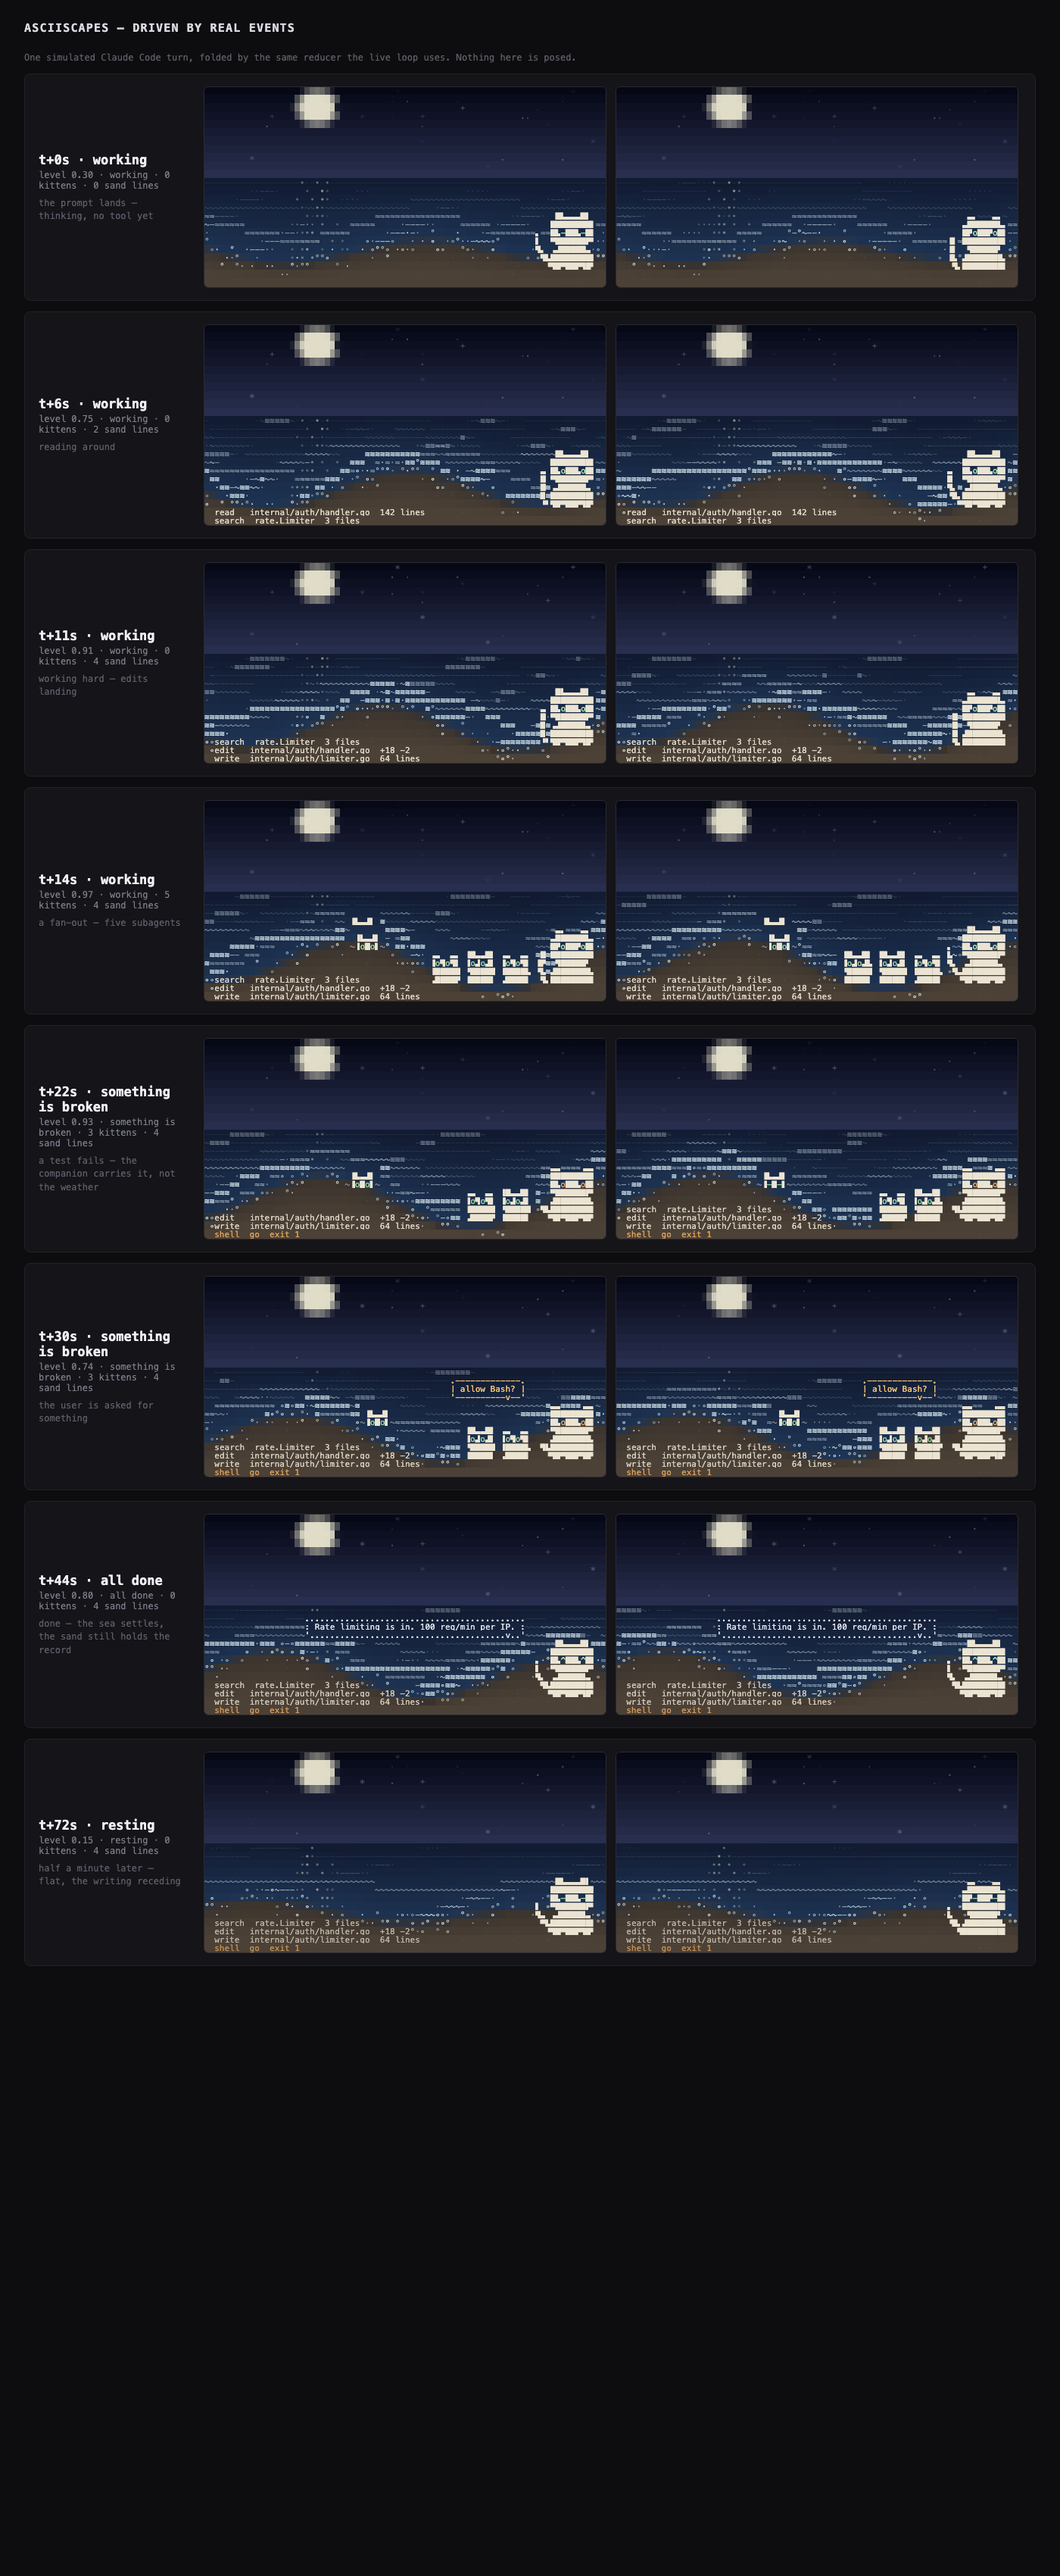
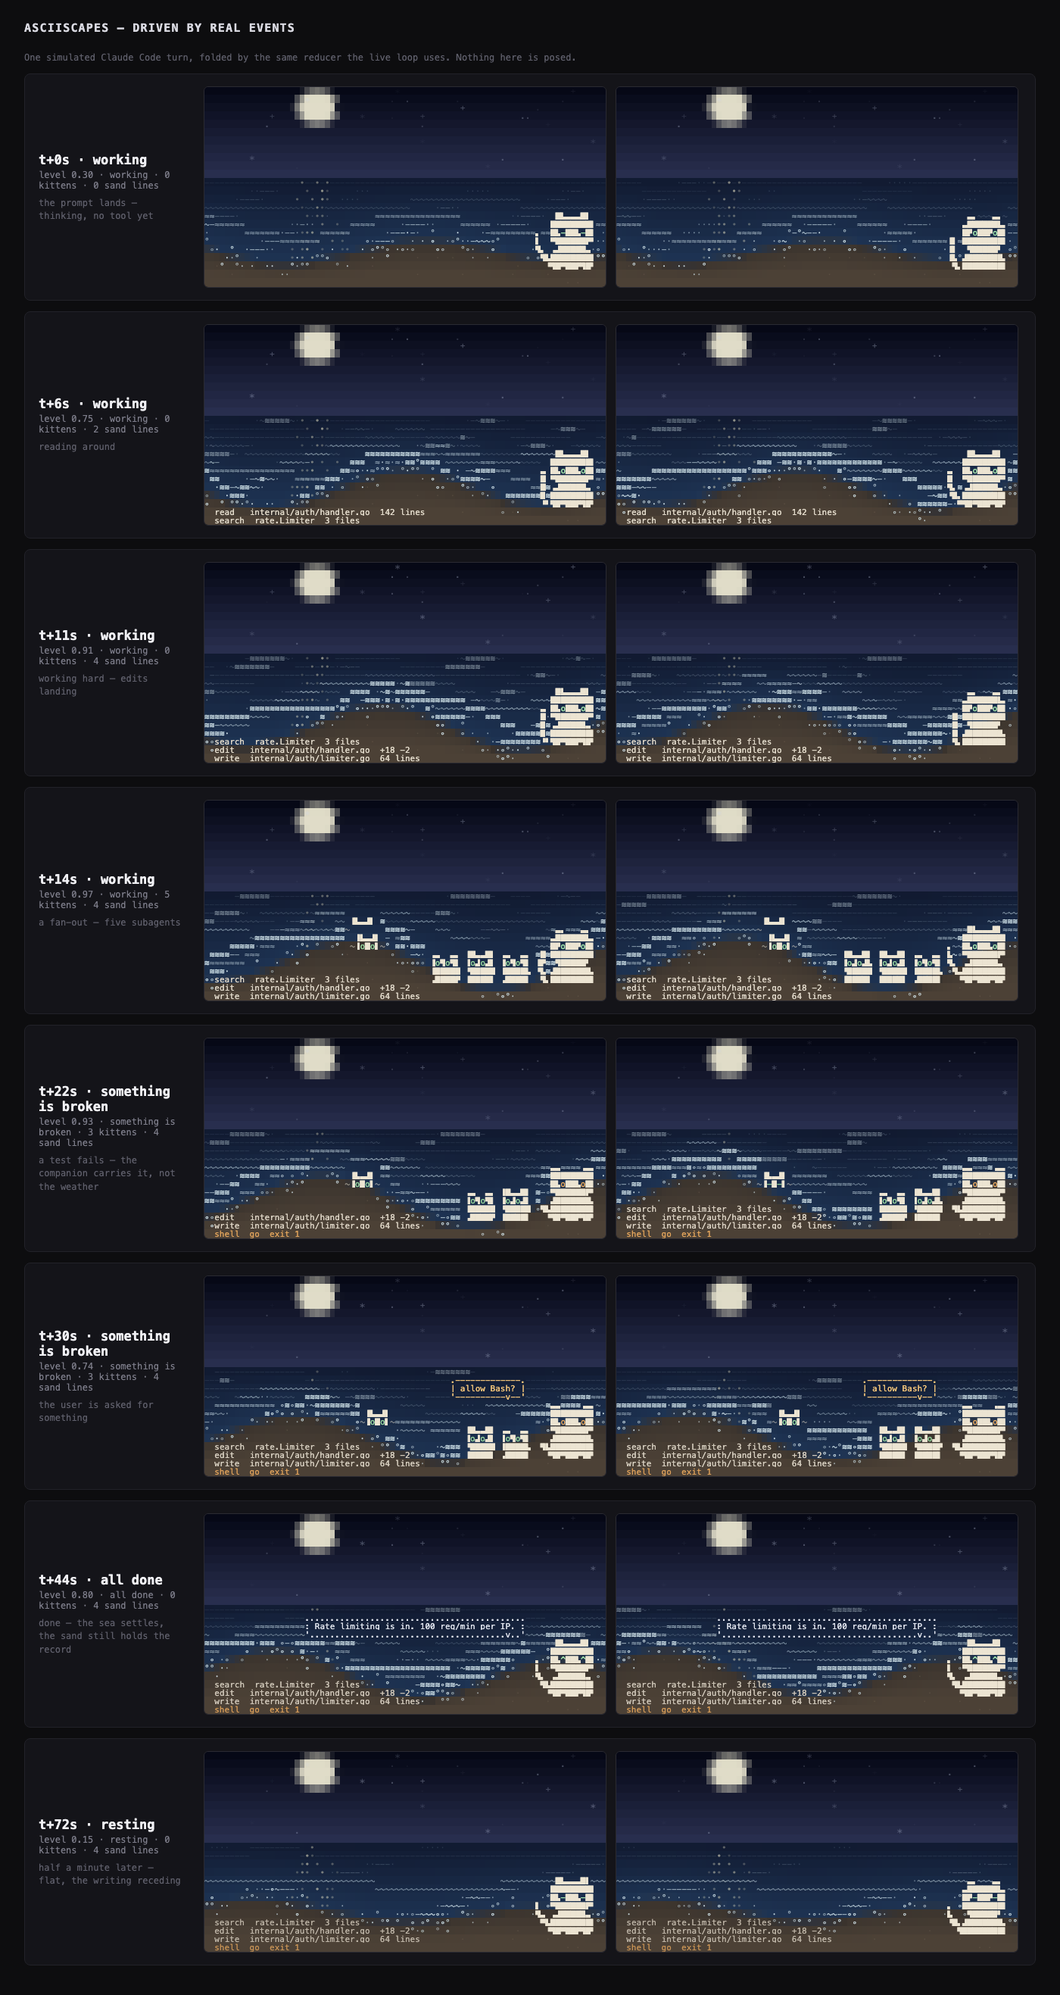
README and LICENSE: the last piece of Milestone 1
Leads with the layer rather than the landscape, per the brief: the event
protocol with pluggable adapters is the general thing, the shoreline is
what it looks like. Then the encoding table, because a scene nobody can
read is decoration.

Every command in it was run before it was written down. Three claims
were wrong on the first draft and are fixed rather than shipped: the
event names are sub_start/sub_end and not subagent_*, the process
adapter is specified and NOT built so it is no longer written in the
present tense, and 'go install github.com/...' cannot work because this
repo has no remote yet, so the install is build-from-source.

wired.png regenerated so the image at the top matches HEAD.

Claude-Session: https://claude.ai/code/session_01PsdMUTHxbXJ8hud6jedByL

diff --git a/README.md b/README.md
@@ -1,0 +1,142 @@
+# asciiscapes
+
+Waiting for an agent is dead time. You fire off a prompt, the terminal goes
+quiet, you tab away, and then you forget to come back. asciiscapes gives that
+dead time a face: a small living shoreline that runs beside your agent, rises
+while it works, and knocks when it wants you.
+
+![one turn, driven by real events](assets/frames/wired.png)
+
+It is two things. Underneath there is an **event protocol** with pluggable
+adapters, which is the part that generalises to any agent. On top there is a
+**reference scape**, which is what that protocol looks like when you give it a
+sea and a cat.
+
+```
+asciiscapes claude
+```
+
+That is the whole thing. Claude Code in the left pane, the scape in the right.
+
+## Install
+
+```sh
+git clone https://github.com/donlucasx/asciiscapes && cd asciiscapes
+go build -o asciiscapes .
+
+./asciiscapes install claude          # prints a plan, writes nothing
+./asciiscapes install claude --apply  # writes the hooks, after a backup
+```
+
+The only dependency is tmux, for the side by side layout:
+
+```sh
+brew install tmux
+```
+
+Without tmux it opens a second Terminal window instead. Uninstall restores your
+settings byte for byte.
+
+## What you are looking at
+
+Everything on screen means one thing, and no two things share a channel.
+
+| what | how it reads |
+|---|---|
+| how hard the agent is working | **the sea**: how many swells are travelling, how tall, whitecaps above half |
+| what it is doing right now | **writing in the sand**, newest brightest, older lines taken by the tide |
+| something is broken | **the companion**: ears back, tail flat, amber eyes, and it stays until you come back |
+| it needs you | **a solid balloon** in a warm colour, plus a bright chime |
+| it finished | **a dotted balloon** in a cool colour, plus a low sonar note |
+| subagents | **kittens**, one per agent, some of them swimming |
+| context left | **the moon**: phase and height, with a readout that stays quiet until 65% |
+| time of day | **the sky**, from your actual clock |
+
+The rule underneath is that **the water is the work and the sky is the world**.
+Sea state always means the agent. Sky, light and time always mean reality.
+Nothing crosses. It is the reason a glance tells you anything at all: you never
+have to ask which of two meanings a change is carrying.
+
+The two knocks are deliberately different in shape as well as colour, so they
+survive a screenshot and a colourblind reading, and they carry different sounds,
+so they survive you looking at another pane. "I finished" and "I am blocked on
+you" are not the same message and should never look the same.
+
+## The protocol
+
+Adapters translate an agent into events. The engine folds events into a scene.
+Anything that can emit these can drive a scape.
+
+```
+session_start  prompt  tool_start  tool_end  error  test_pass  test_fail
+sub_start  sub_end  needs_input  done  compact  context  todo  session_end
+```
+
+Send one by hand:
+
+```sh
+asciiscapes emit tool_end -tool Read -target internal/auth/handler.go -detail "142 lines"
+asciiscapes emit needs_input -text "allow Bash?"
+```
+
+Events reach a running scape over a unix socket in `~/.config/asciiscapes/run/`,
+and spool to a file when nothing is listening, so a scape started late still
+picks up the session.
+
+**Adapter 1: Claude Code**, via hooks. `asciiscapes install claude` writes them.
+The payload schema was read out of the Claude Code binary rather than guessed;
+see `notes/claude-hooks-verified.md`.
+
+**Adapter 2** is specified and not built yet: for agents with no hooks, watch
+the process instead, where alive plus output means busy and the prompt coming
+back means done.
+
+Writing one means emitting the events above. Nothing in the engine knows what
+Claude Code is.
+
+## Everything else
+
+```sh
+asciiscapes -live              # the scape in this terminal, Ctrl-C to quit
+asciiscapes -info              # colour profile, size, which sound player
+asciiscapes notify             # hear both knocks
+asciiscapes replay session.jsonl   # feed a recorded session back through the engine
+ASCIISCAPES_SILENT=1 …         # mute
+```
+
+`asciiscapes claude -print` shows you the exact commands it would run and
+changes nothing.
+
+## Notes for anyone reading the code
+
+It is Go, standard library only, one static binary. No Node, no Python, no
+framework.
+
+Three things in here were harder than they look and are commented where they
+live:
+
+- **256 colours are not greyscale.** A dark palette collapses to grey because
+  the xterm cube has almost no resolution below luma 25. The fix is to keep the
+  darkness in the backgrounds and push the colour into the glyphs, which are the
+  bright part of the frame. `ASCIISCAPES_CHROMA` tunes it.
+- **Activity is encoded in coverage, count and position, never in rate.** A
+  glance is the whole budget and a screenshot has no motion at all. The first
+  version mapped activity to wave speed and idle looked identical to flat out.
+- **The renderer is a real three layer alpha compositor**, so occlusion between
+  the companion, the kittens and the sea is decided once instead of per sprite.
+
+Run the tests with `go test ./...`. The interesting ones assert things that
+looked fine on screen and were not: that whiskers touch fur on their own row,
+that a sixty second permission nag rings once rather than once a minute, and
+that a killed agent eventually settles instead of leaving the cat working
+forever.
+
+## Status
+
+Early. The scape runs, the Claude Code adapter works, the sounds work, and the
+launcher works. Stars for completed todos are specified and not built. The
+companion's final coat and markings are still being chosen.
+
+## License
+
+MIT.
